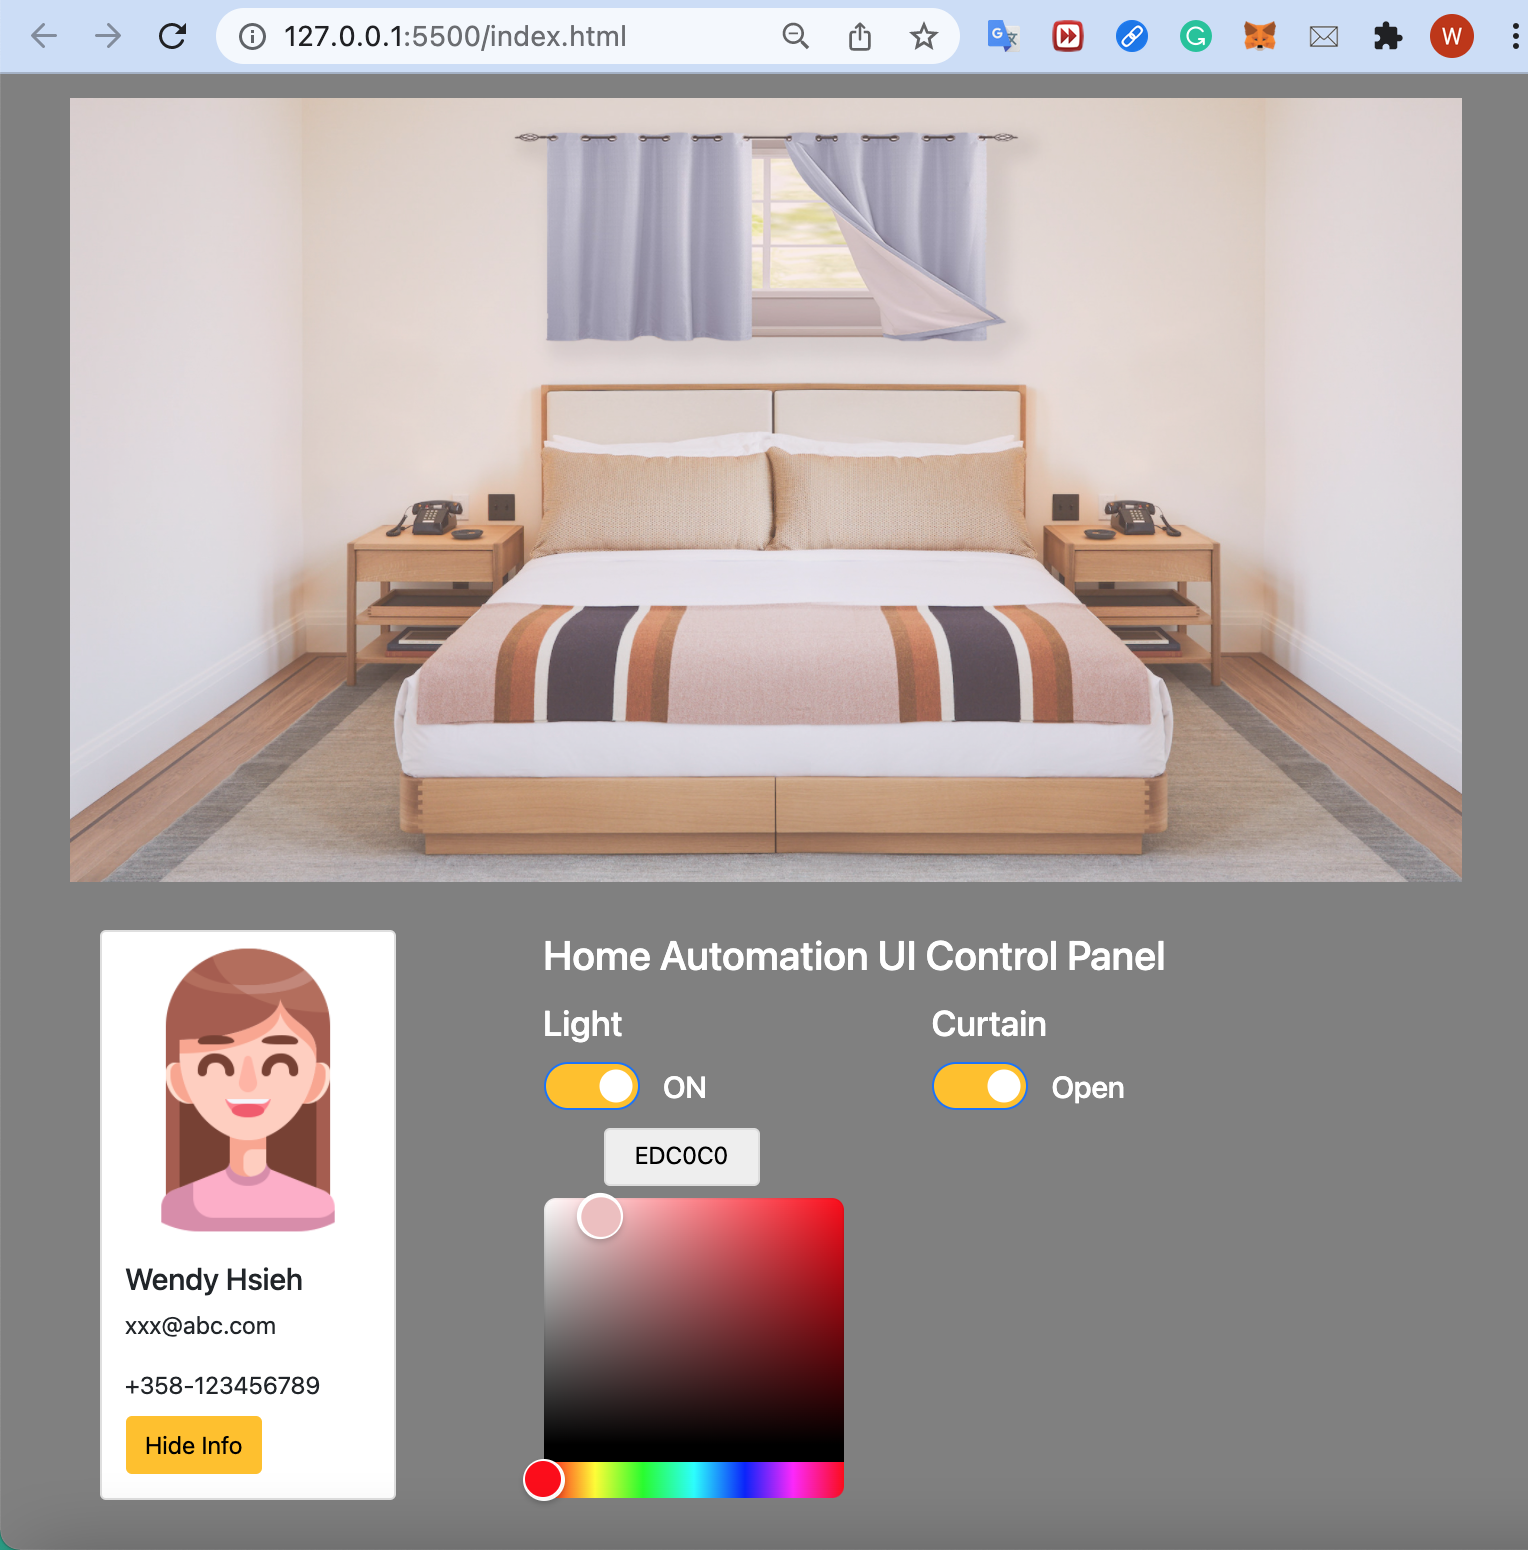
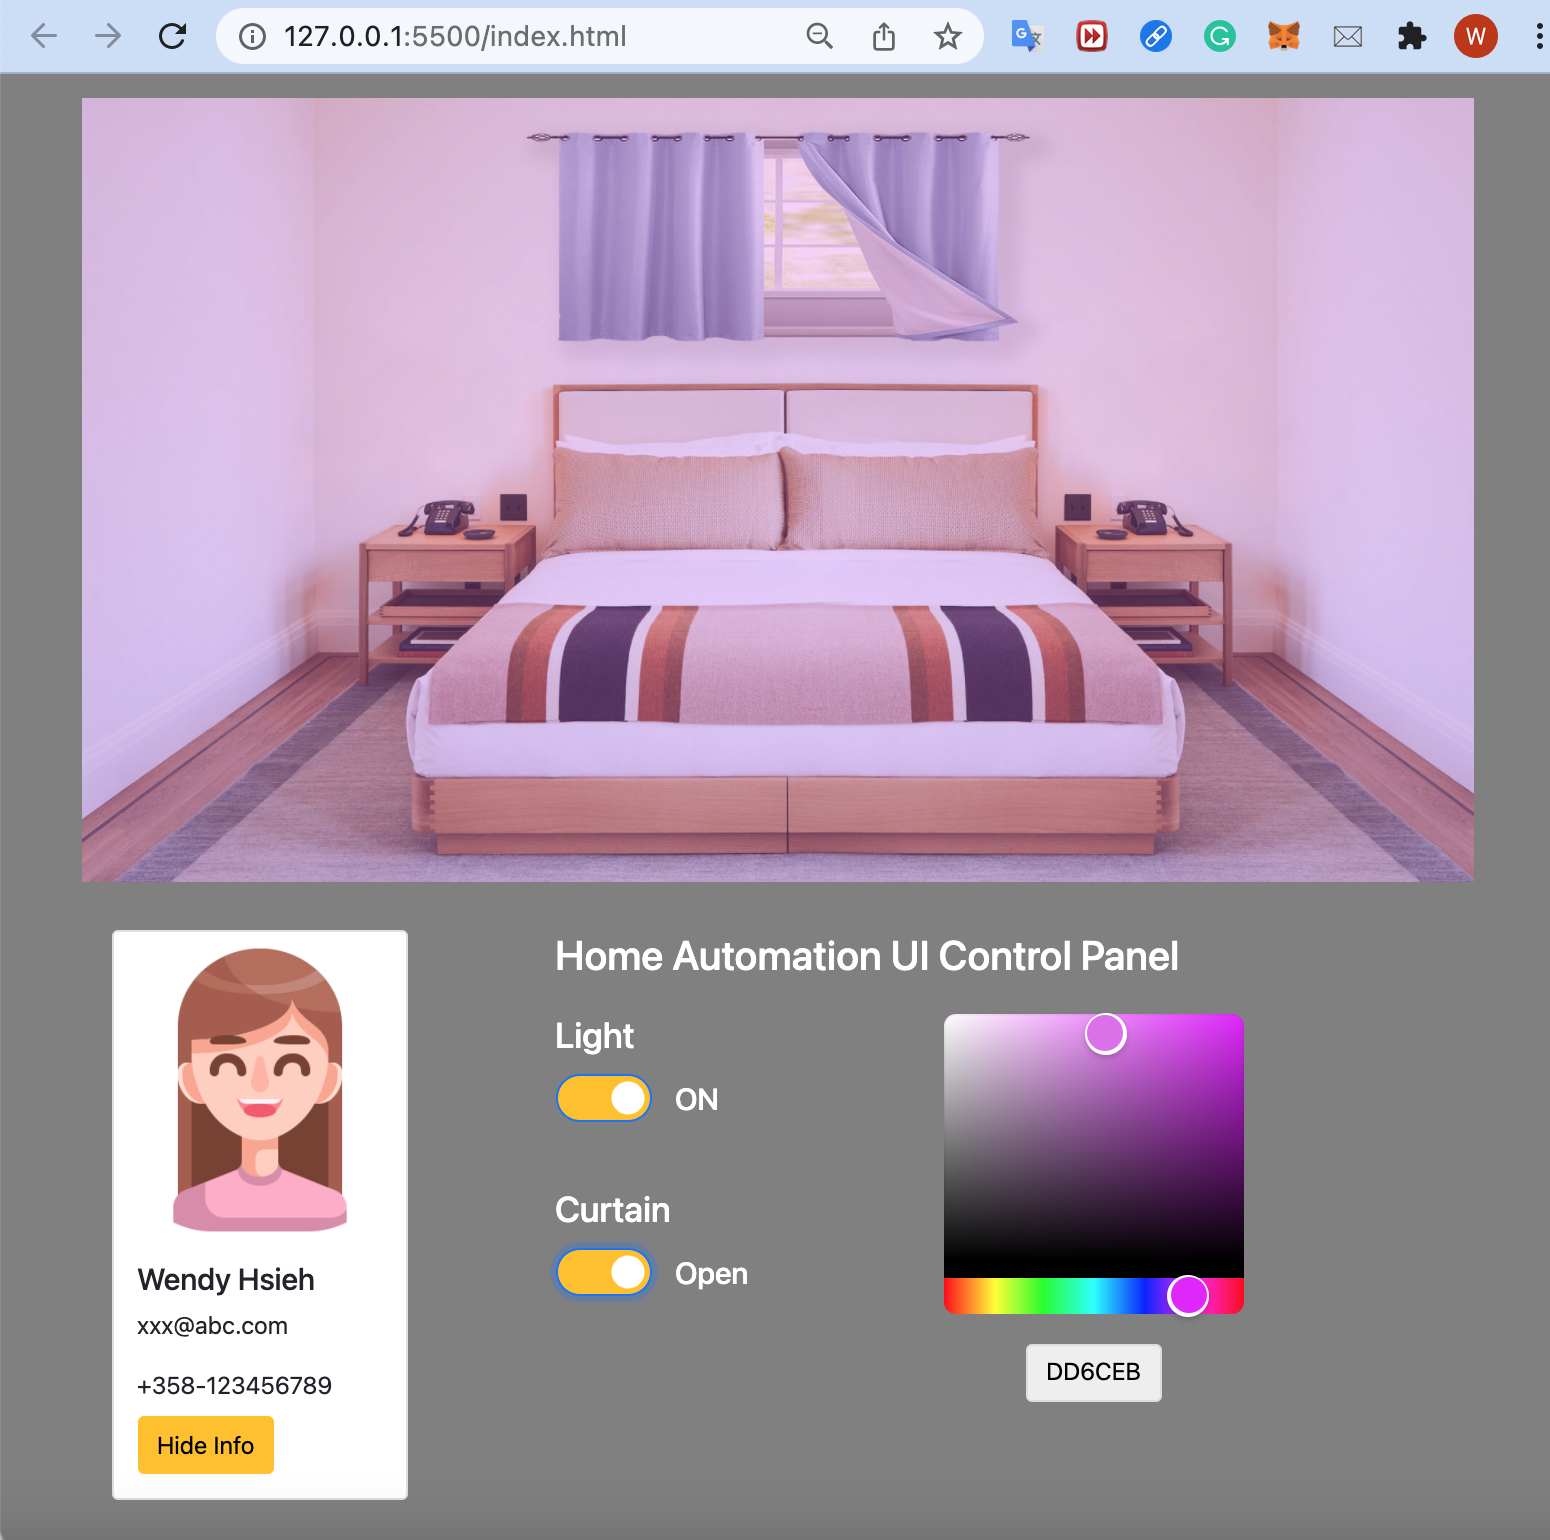
Add implementation info

diff --git a/README.md b/README.md
@@ -1,17 +1,48 @@
 # Vanilla/Plain JS Home Automation UI
 
-An application of home automation simulation UI built with plain JavaScripts.
+## Description
+
+A static web application of home automation simulation consisting of UI components built with plain JavaScripts and
+room images composited with Adobe Photoshop and Adobe Illustrator.
 
 ## Demo
+
+### [Live Demo](https://vanillajs-home-automation-wantinghsieh.netlify.app/)
 
 ![demo.gif](./img/demo.gif)
 
 ![ScreenShot.png](./img/ScreenShot.png)
 
-## Tools
+## Features
 
-- [Adobe Photoshop](https://www.adobe.com/products/photoshop.html): for creating open and closed curtains and the room with multiple image layers
+- **button switches**:
+  - turning on and off environment light
+  - opening and closing the curtains
+- **color picker wheel**: chang the light temperature
+- **user card**: showing the house owner's information
+
+## External Libraries and Tools
+
+- [Adobe Photoshop](https://www.adobe.com/products/photoshop.html): for creating, mirroring, and editing open and closed curtain images and the room images with multiple  layers
 - [Adobe Illustrator](https://www.adobe.com/products/illustrator.html): for creating the SVG light mask
-- [Bootstrap](https://getbootstrap.com/): for quickly designing responsive webpage
+- [Bootstrap](https://getbootstrap.com/): for quickly designing a responsive webpage
 - [Color Picker Wheel](https://github.com/web-padawan/vanilla-colorful): for changing the SVG light mask color
 - [To change any SVGs color](https://stackoverflow.com/questions/22252472/how-to-change-the-color-of-an-svg-element): for changing the color of an SVG image with a HEX color code
+
+## Setup
+
+The application serves as a static website that doesn't require running any server-side code.
+
+The application has been tested on Google Chrome, Mozilla Firefox, and Safari for macOS.
+
+## Implementation
+
+### Workflow
+
+First, I categorized the number of UI components that needed to be implemented along with their events. Some UI components, such as the user card, are conveniently packaged as an encapsulated module, while others like switches, color picker wheel, and the room images are easier to manipulate their interaction within the same script.
+
+Second, instead of only allowing users to choose a small number of color swatches, assigning any color as their choice would be more user-friendly and straightforward. Therefore, a color pick wheel would suit users to control the light temperature, just like painting with a graphics editor.
+
+Next, to simulate the final result of home automation, I composited a real-world room image with a curtain image in Adobe Photoshop. I created a black translucent SVG mask so that the color picker wheel can manipulate the mask hue by changing the value of its CSS `filter` attribute.
+
+Finally, I arranged the UI components with [Bootstrap](https://getbootstrap.com/) and hosted the static website on [Netlify](https://www.netlify.com/).
